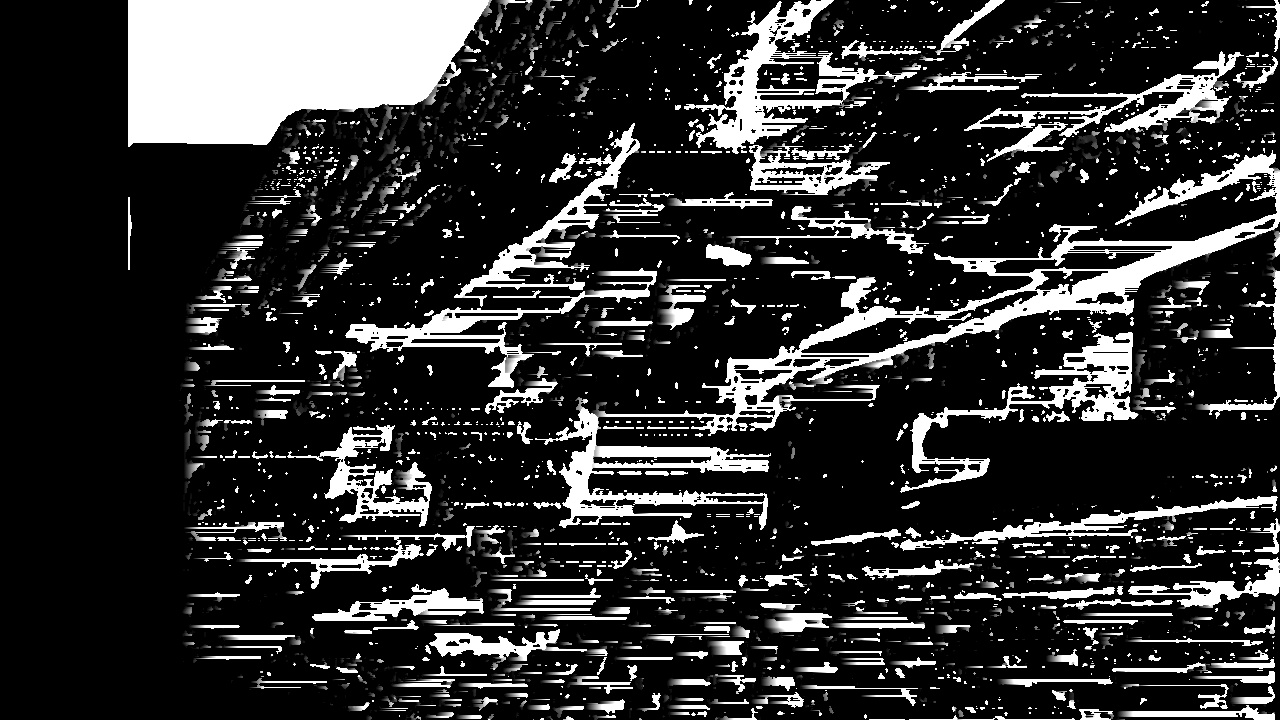
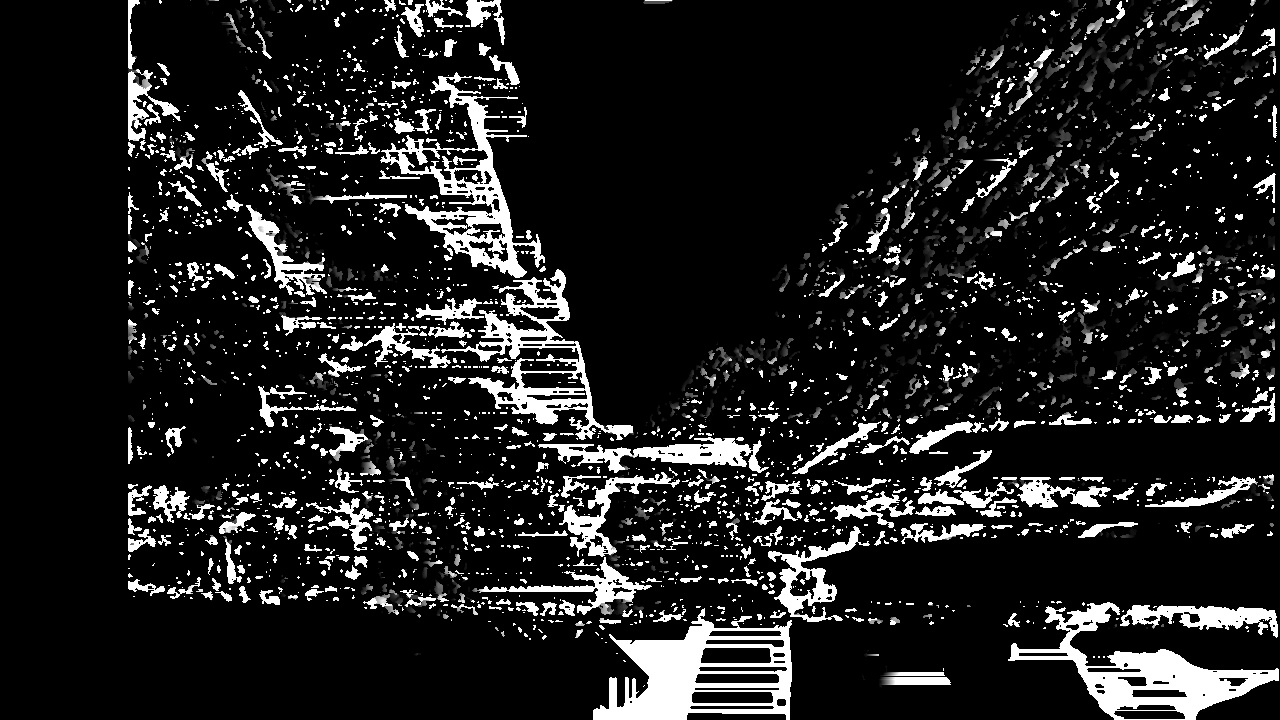
wip

Changed region(s): [[0.0938, 0.0, 1.0, 1.0], [0.0938, 0.3361, 0.125, 0.3667]]

diff --git a/final_report_SfM/SfM2.py b/final_report_SfM/SfM2.py
@@ -1,6 +1,7 @@
 # 
 
 from pprint import pprint
+from tracemalloc import start
 import numpy as np
 import glob
 import cv2
@@ -22,7 +23,7 @@ def match_feature(img1, img2):
     good = []  # オブジェクトの保管場所
     good2 = []  # オブジェクトの保管場所 drawMatchesKnnに食わせるための形式
     for m, n in matches:
-        if m.distance < 0.3*n.distance:  # 厳選を実施
+        if m.distance < 0.7*n.distance:  # 厳選を実施
             good.append(m)
             good2.append([m])
     img1_pt = [list(map(int, kp1[m.queryIdx].pt))
@@ -97,24 +98,101 @@ def crt_checker(img1,img2,img3,img4,img5,img6):
     return approval
 
 
+def interpolate(i, imgL, imgR, disparity_raw):
+    img_interp = np.zeros_like(imgL)  # 描画のキャンバスを用意
+    for y in range(imgL.shape[0]):  # 画像の縦方向
+        for x1 in range(imgL.shape[1]):  # 画像の横方向
+            if y % 100 == 0 and x1 % 100 == 0:
+                print("current process: ", y, x1)
+            x2 = int(x1 - disparity_raw[y, x1])  # 左側画像に対応する点の右側座標を取得
+            x_i = int((2 - i) * x1 + (i - 1) * x2)  # 左側画像と右側座標の間の位置を決定
+            # 移動先が画像のサイズを超えていないか確認
+            if 0 <= x_i < img_interp.shape[1] and 0 <= x2 < imgR.shape[1]:
+                img_interp[y, x_i,:] = (2 - i) * imgL[y, x1,:] + (i - 1) * imgR[y, x2,:]  # 　移動先の画素値を決定
+    return img_interp.astype(np.uint8)
 
+def match_to_disparity(img1,img2):
+    img1_pt_s, img2_pt_s, F = match_feature(img1,img2)
+    E = K.T.dot(F).dot(K)
+    retval, H1, H2 = cv2.stereoRectifyUncalibrated(img1_pt_s, img2_pt_s, F, img1.shape[:2])
+    img1r = cv2.warpPerspective(img1, H1, [img1.shape[1], img1.shape[0]])
+    img2r = cv2.warpPerspective(img2, H2, [img2.shape[1], img2.shape[0]])
+    cv2.imwrite(current_dir+"/results/img1r.jpg", img1r)
+    cv2.imwrite(current_dir+"/results/img2r.jpg", img2r)
+    disparity_raw,disparity=crt_disparity(img1r,img2r)
+    return img1,img2,img1r,img2r,disparity_raw,disparity 
 # 
 os.chdir("final_report_SfM")
 current_dir = os.getcwd()
 print(current_dir) # /home/ytpc2019a/code_ws/class_CV/final_report_SfM
 
-final_path=sorted(glob.glob(current_dir+"/images/*"))
+images_path=sorted(glob.glob(current_dir+"/images/images3/*"))
 
-print(final_path)
+good_images=sorted(glob.glob(current_dir+"/images/good_images/*"))
+print(good_images)
+
+last_good_image=os.path.basename(good_images[-1])
+start_no=0
+for i,path in enumerate(images_path):
+    if last_good_image in path:
+        start_no=i
+        break
+
+images_path=images_path[start_no+1:]
+print("start with good image : ",last_good_image)
 
 # parameter
 K=np.array([[842.50011162,0.,578.89029916],[0.,801.01078582,246.00138272],[0.,0.,1.]])
 
 
+# 最初の1セット
+j=0
+for i in np.arange(1,len(images_path)):
+    j+=1
+    print("comparing :",os.path.basename(sorted(glob.glob(current_dir+"/images/good_images/*")[-1])),os.path.basename(images_path[i]))
+    img1=cv2.imread(sorted(glob.glob(current_dir+"/images/good_images/*")[-1]))
+    img2=cv2.imread(images_path[i])
+    img2_name=os.path.basename(images_path[i])
+    try:
+        img1,img2,img1r,img2r,disparity_raw,disparity=match_to_disparity(img1,img2)
+        if int(np.average(img1r[0][640]))==0 :#cor int(np.average(img1r[360][640]))==0:
+            check=False
+            j=0
+        else:
+            try:
+                check=crt_checker(img1,img2,img1r,img2r,disparity_raw,disparity)
+            except cv2.error:
+                print("### CV2 ERROR ###")
+                check=False
+    except TypeError:
+        check=False
+        print("### TYPE ERROR ###")
+    except cv2.error:
+        check=False
+        print("### CV2 ERROR ###")
+    print(check)
 
-for i in range(len(final_path)-1):
-    img1=cv2.imread(final_path[i])
-    img2=cv2.imread(final_path[i+1])
+    if check or j>10:
+        good_images.append(images_path[i])
+        cv2.imwrite(current_dir+f"/images/good_images/{img2_name}",img2)
+
+print(images_path)
+print(good_images)
+
+
+
+for i in range(len(good_images)-1):
+    img1=cv2.imread(good_images[i])
+    img2=cv2.imread(good_images[i+1])
+    # view interpolationを実行
+    img_interp = interpolate(1.5,img1r, img2r, disparity_raw)
+    cv2.imwrite(current_dir+f"/results/view_interpolation/img_interp{1.5}.jpg", img_interp)
+
+
+"""
+for i in range(len(images_path)-1):
+    img1=cv2.imread(images_path[i])
+    img2=cv2.imread(images_path[i+1])
     img1_pt_s, img2_pt_s, F = match_feature(img1,img2)
     E = K.T.dot(F).dot(K)
     retval, H1, H2 = cv2.stereoRectifyUncalibrated(img1_pt_s, img2_pt_s, F, img1.shape[:2])
@@ -126,10 +204,23 @@ for i in range(len(final_path)-1):
     check=crt_checker(img1,img2,img1r,img2r,disparity_raw,disparity)
     print(check)
 """
+
+"""
 アイデアメモ
 ・できてる・できていないを表示させる
 →できていたら、その２枚目を次の１枚目にして、続ける。よかったやつはよかったやつとして残す。
 →できていなかったら、２枚目を次の画像に変える。
 ・できているものだけでSfMをやるか、view morphingをするかして、最終的に14棟をぐるっと一周
+
+並んだ②枚を出す
+img1が前で、img2が後ろ
+・マッチできていたら
+    img2を登録する
+    img1は登録済みのはず
+    img2をimg1にする
+・できてなかったら
+    img2は飛ばす
+    img1は保持したまま、img2を次の画像にする
+
 """
 

diff --git a/final_report_SfM/test.py b/final_report_SfM/test.py
@@ -1,0 +1,3 @@
+path1="anslirutyvli"
+path2="irut"
+print(path2 in path1)
